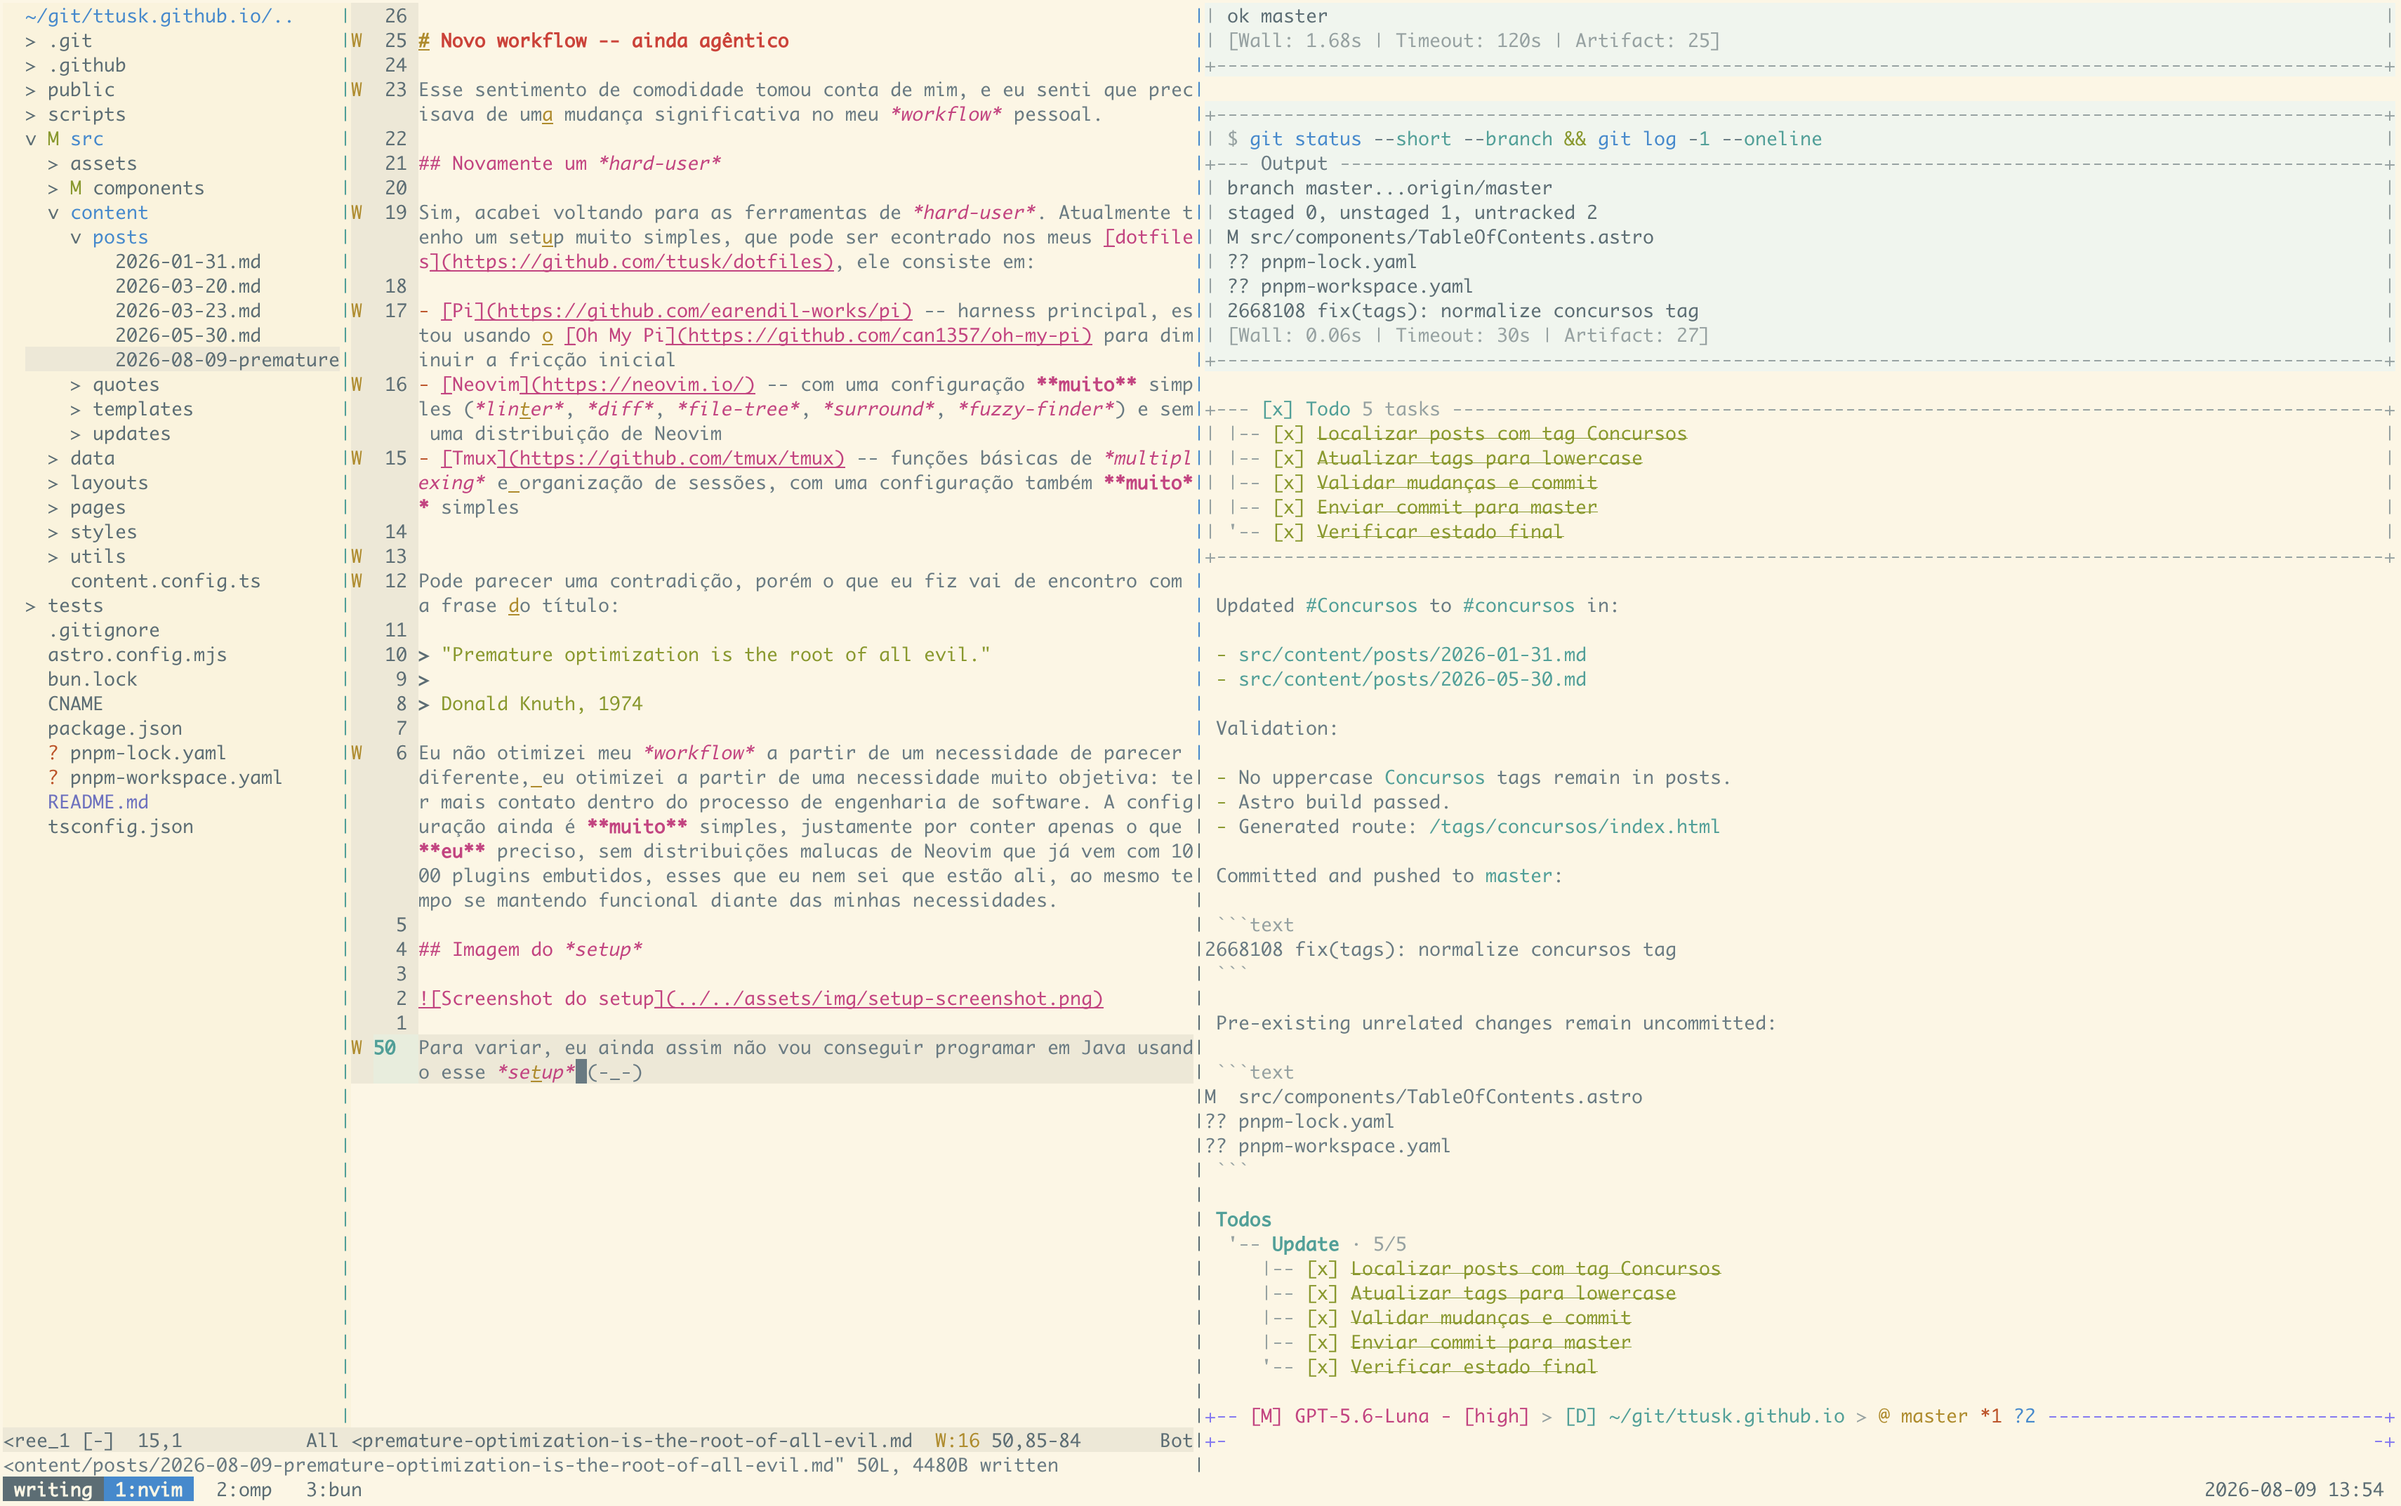
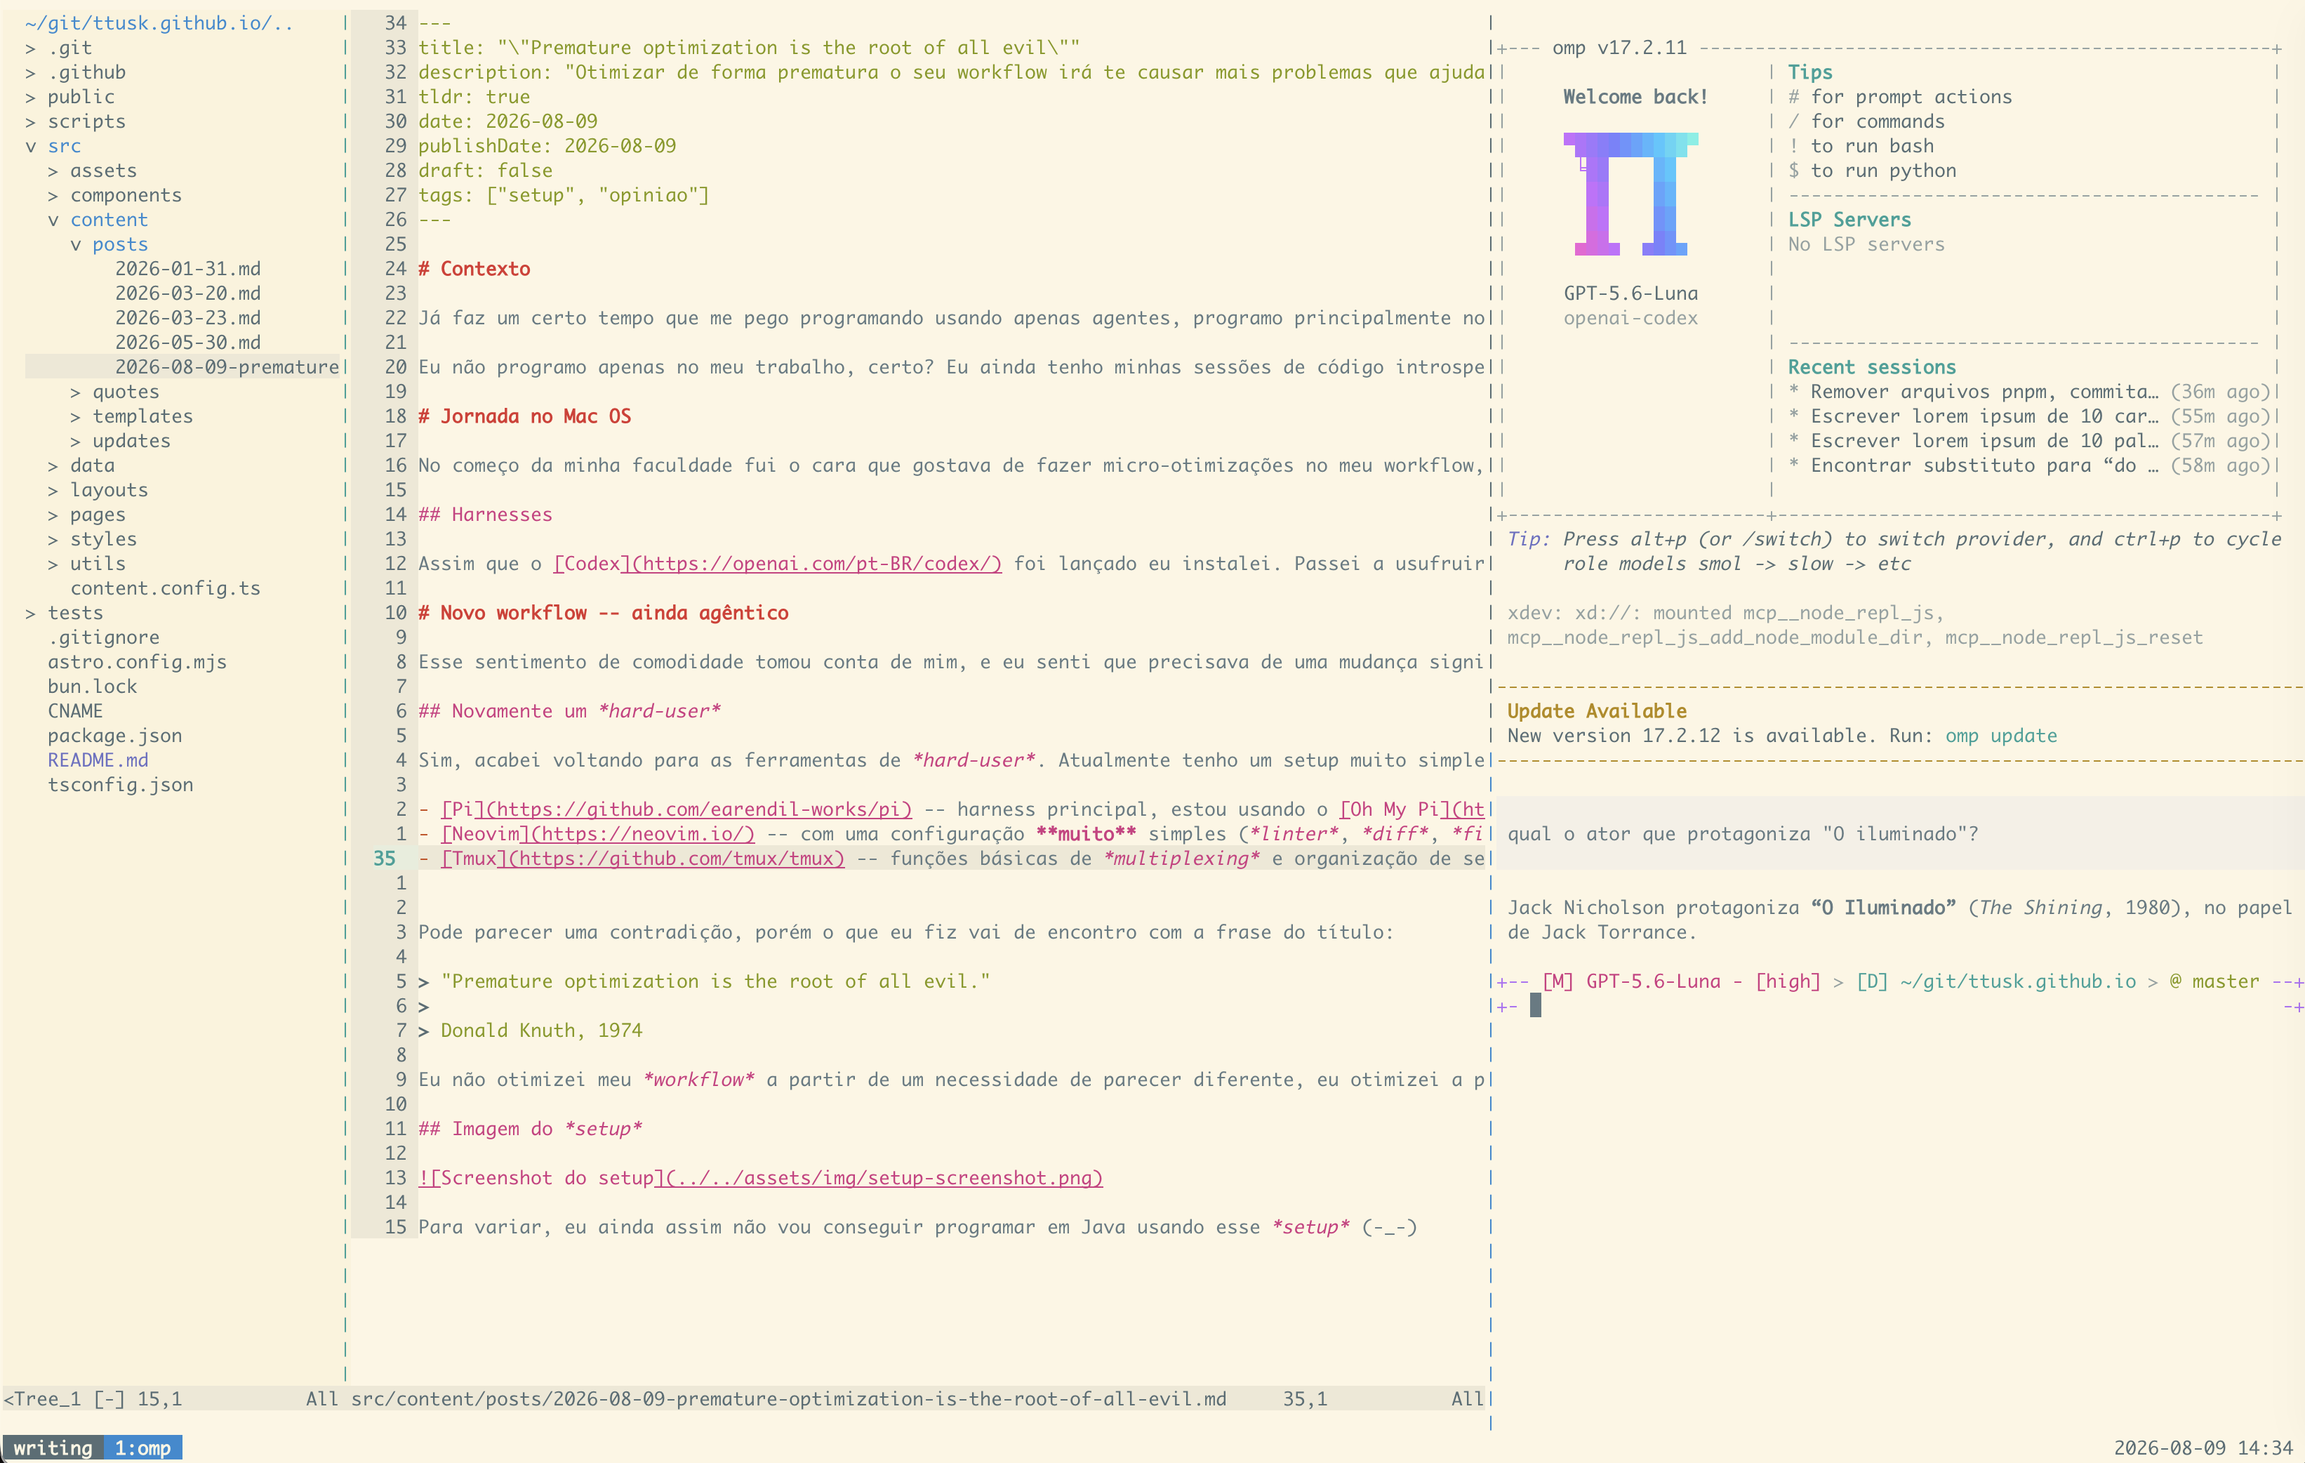
correcoes no post

diff --git a/src/content/posts/2026-08-09-premature-optimization-is-the-root-of-all-evil.md b/src/content/posts/2026-08-09-premature-optimization-is-the-root-of-all-evil.md
@@ -12,11 +12,12 @@ tags: ["setup", "opiniao"]
 
 Já faz um certo tempo que me pego programando usando apenas agentes, programo principalmente no meu trabalho, portanto o que faço é visando apenas os resultados gerados pelo trabalho. A velocidade de desenvolvimento aumenta muito, a fricção é muito menor para as demandas saírem do Kanban e irem direto para a tela do usuário, porém, em contrapartida os prazos se tornam significativamente menores, dado que consigo agregar mais valor em um tempo menor, tenho menos margem para experimentar coisas novas e logicamente tenho menos contato com a escrita "artesanal" do código.
 
-Eu não programo apenas no meu trabalho, certo? Eu ainda tenho minhas sessões de código introspectivas, seja para a faculdade, ou em projetos meus. Também uso agentes nesses projetos, sinto que a medida que diminuo muito o contato com o código que eu escrevo, através de abstrações, por exemplo: uso da linguagem natural para dar direcionamento ao harness. Me pego tendo menos prazer para fazer o que eu faço; eu preciso ter mais contato com o código, e eu preciso saber o que está acontecendo -- linha por linha. Programar, principalmente na área corporativa, passou a ser um processo muito mais burocrático que manual e eu acho isso muito tedioso. Na programação, eu gosto muito mais do processo que a linha de chegada.
+Eu não programo apenas no meu trabalho, certo? Eu ainda tenho minhas sessões de código introspectivas, seja para a faculdade, ou em projetos meus. Também uso agentes nesses projetos, sinto que a medida que diminuo muito o contato com o código que eu escrevo, através de abstrações (uso da linguagem natural para dar direcionamento ao agente). Me pego tendo menos prazer para fazer o que eu faço; eu preciso ter mais contato com o código, e eu preciso saber o que está acontecendo -- linha por linha. Programar, principalmente na área corporativa, passou a ser um processo muito mais burocrático que manual e eu acho isso tedioso; para alguém que gosta do processo de programar, prazos cada vez mais curtos são um porre.
+
 
 # Jornada no Mac OS
 
-No começo da minha faculdade fui o cara que gostava de fazer micro-otimizações no meu workflow, configurando *binds*, instalando *window-managers*... enfim; eu era um *hard-user* de ferramentas que otimizavam meu *workflow* ao máximo, nem me dava conta do tempo perdido escrevendo meus *dotfiles*. Essa falsa produtividade diminuiu significativamente assim que comprei meu macbook, obviamente experimentei muito com o [aerospace](https://nikitabobko.github.io/AeroSpace/guide) -- o mais próximo que eu podia chegar de um [i3wm](https://i3wm.org/) no Mac OS. Acabei abandonando, por achar aplicações que mudam o fluxo padrão de uso no Mac OS *clunky*.
+No começo da minha faculdade fui o cara que gostava de fazer micro-otimizações no meu workflow, configurando *binds*, instalando *window-managers*... enfim; eu era um *hard-user* de ferramentas que otimizavam meu *workflow* ao máximo, nem me dava conta do tempo perdido escrevendo meus *dotfiles*. Essa falsa produtividade diminuiu significativamente assim que comprei meu macbook, obviamente experimentei muito com o [aerospace](https://nikitabobko.github.io/AeroSpace/guide) -- o mais próximo que eu podia chegar de um [i3wm](https://i3wm.org/) no Mac OS. Acabei abandonando, por achar aplicações que mudam o fluxo padrão de uso no Mac OS muito *clunky*.
 
 ## Harnesses
 
